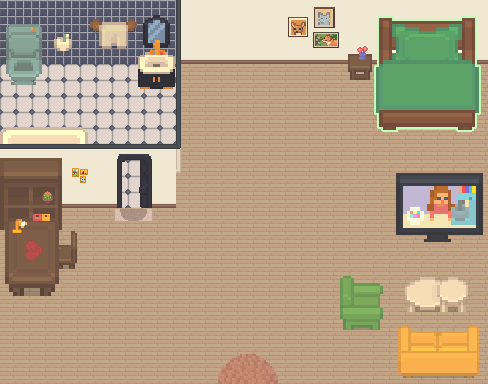
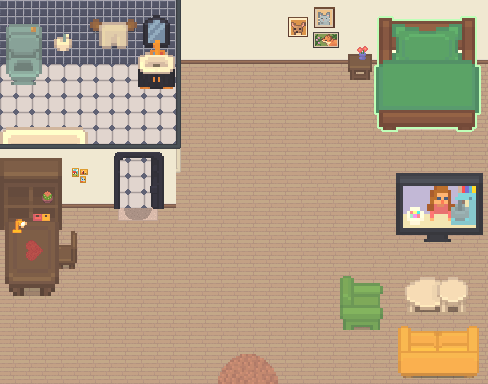
Bug: 캐릭터 이동 버그 수정 (#22)

Changed region(s): [[0.2152, 0.375, 0.3381, 0.5938], [0.8299, 0.7812, 0.9529, 0.8125], [0.8607, 0.9688, 0.9529, 1.0]]

diff --git a/src/assets/home/home-collisions.js b/src/assets/home/home-collisions.js
@@ -24,110 +24,111 @@ const collisions = [
   15, 15, 15, 15, 15, 15, 15, 15, 15, 15, 15, 15, 15, 15, 15, 15, 15, 15, 15,
   15, 15, 15, 15, 15, 15, 15, 15, 15, 15, 15, 15, 15, 15, 15, 15, 15, 15, 15,
   15, 15, 15, 15, 15, 15, 15, 15, 15, 15, 15, 15, 15, 15, 15, 15, 15, 15, 15,
-  15, 15, 15, 15, 15, 15, 15, 15, 15, 15, 15, 15, 15, 0, 15, 15, 15, 15, 0, 0,
+  15, 15, 15, 15, 15, 15, 15, 15, 15, 15, 15, 15, 15, 15, 15, 15, 15, 15, 0, 0,
   0, 0, 0, 0, 0, 0, 0, 0, 0, 0, 15, 15, 15, 15, 15, 15, 0, 0, 0, 0, 0, 0, 0, 0,
   0, 0, 0, 0, 0, 0, 0, 0, 0, 0, 0, 0, 15, 15, 15, 15, 15, 15, 15, 15, 15, 15,
-  15, 15, 15, 15, 15, 15, 15, 15, 0, 15, 15, 15, 15, 0, 0, 0, 0, 0, 0, 0, 0, 0,
+  15, 15, 15, 15, 15, 15, 15, 15, 15, 15, 15, 15, 15, 0, 0, 0, 0, 0, 0, 0, 0, 0,
   0, 0, 0, 15, 15, 15, 15, 15, 15, 0, 0, 0, 0, 0, 0, 0, 0, 0, 0, 0, 0, 0, 0, 0,
   0, 0, 0, 0, 0, 15, 15, 15, 15, 15, 15, 15, 15, 15, 15, 15, 15, 15, 15, 15, 15,
-  15, 15, 0, 0, 0, 0, 0, 0, 0, 0, 0, 0, 0, 0, 0, 0, 0, 0, 0, 15, 15, 15, 15, 15,
-  15, 0, 0, 0, 0, 0, 0, 0, 0, 0, 0, 0, 0, 0, 0, 0, 0, 0, 0, 0, 0, 0, 0, 0, 0,
-  15, 15, 15, 15, 15, 15, 15, 15, 15, 15, 15, 15, 15, 15, 0, 0, 0, 0, 0, 0, 0,
-  0, 0, 0, 0, 0, 0, 0, 0, 0, 0, 0, 0, 0, 0, 0, 15, 0, 0, 0, 0, 0, 0, 0, 0, 0, 0,
-  0, 0, 0, 0, 0, 0, 0, 0, 0, 0, 0, 0, 0, 0, 15, 15, 15, 15, 15, 15, 15, 15, 15,
-  15, 15, 15, 15, 15, 0, 0, 0, 0, 0, 0, 0, 0, 0, 0, 0, 0, 0, 0, 0, 0, 0, 0, 0,
-  0, 0, 0, 15, 0, 0, 0, 0, 0, 0, 0, 0, 0, 0, 0, 0, 0, 0, 0, 0, 0, 0, 0, 0, 0, 0,
-  0, 0, 15, 15, 15, 15, 15, 15, 15, 15, 15, 15, 15, 15, 15, 15, 0, 0, 0, 0, 0,
-  0, 0, 0, 0, 0, 0, 0, 0, 0, 0, 0, 0, 0, 0, 0, 0, 0, 15, 0, 0, 0, 0, 0, 0, 0, 0,
-  0, 0, 0, 0, 0, 0, 0, 0, 0, 0, 0, 0, 0, 0, 0, 0, 15, 15, 15, 15, 15, 15, 15,
-  15, 15, 15, 15, 15, 15, 15, 0, 0, 0, 0, 0, 0, 0, 0, 0, 0, 0, 0, 0, 0, 0, 0, 0,
-  0, 0, 0, 0, 0, 15, 0, 0, 0, 0, 0, 0, 0, 0, 0, 0, 0, 0, 0, 0, 0, 0, 0, 0, 0, 0,
-  0, 0, 0, 0, 15, 15, 15, 15, 15, 15, 15, 15, 15, 15, 15, 15, 15, 15, 0, 0, 0,
-  0, 0, 0, 0, 0, 0, 0, 0, 0, 0, 0, 0, 0, 0, 0, 0, 0, 0, 0, 15, 0, 0, 0, 0, 0, 0,
-  0, 0, 0, 0, 0, 0, 0, 0, 0, 0, 0, 0, 0, 0, 0, 0, 0, 0, 15, 15, 15, 15, 15, 15,
-  15, 15, 15, 15, 15, 15, 15, 15, 15, 15, 15, 15, 15, 15, 15, 15, 15, 15, 15, 0,
-  0, 0, 0, 0, 0, 0, 0, 0, 0, 0, 15, 0, 0, 0, 0, 0, 0, 0, 0, 0, 0, 0, 0, 0, 0, 0,
-  0, 0, 0, 0, 0, 0, 0, 0, 0, 0, 0, 0, 0, 0, 0, 0, 0, 0, 0, 0, 0, 0, 0, 15, 15,
-  15, 15, 15, 15, 15, 15, 15, 15, 15, 0, 0, 0, 0, 0, 0, 0, 0, 0, 0, 0, 15, 0, 0,
-  0, 0, 0, 0, 0, 0, 0, 0, 0, 0, 0, 0, 0, 0, 0, 0, 0, 0, 0, 0, 0, 0, 0, 0, 0, 0,
-  0, 0, 0, 0, 0, 0, 0, 0, 0, 0, 15, 15, 15, 15, 15, 15, 15, 15, 15, 15, 15, 0,
-  0, 0, 0, 0, 0, 0, 0, 0, 0, 0, 15, 0, 0, 0, 0, 0, 0, 0, 0, 0, 0, 0, 0, 0, 0, 0,
-  0, 0, 0, 0, 0, 0, 0, 0, 0, 0, 0, 0, 0, 0, 0, 0, 0, 0, 0, 0, 0, 0, 0, 15, 15,
-  15, 15, 15, 15, 15, 15, 15, 15, 15, 0, 0, 0, 0, 0, 0, 0, 0, 0, 0, 0, 15, 0, 0,
-  0, 0, 0, 0, 0, 0, 0, 0, 0, 0, 0, 0, 0, 0, 0, 0, 0, 0, 0, 0, 0, 0, 0, 0, 0, 0,
-  0, 0, 0, 0, 0, 0, 0, 0, 0, 0, 15, 15, 15, 15, 15, 15, 15, 15, 15, 15, 15, 0,
-  0, 0, 0, 0, 0, 0, 0, 0, 0, 0, 15, 0, 0, 0, 0, 0, 0, 0, 0, 0, 0, 0, 0, 0, 0, 0,
-  0, 0, 0, 0, 0, 0, 0, 0, 0, 0, 0, 0, 0, 0, 0, 0, 0, 0, 0, 0, 0, 0, 0, 15, 15,
-  15, 15, 15, 15, 15, 15, 15, 15, 15, 0, 0, 0, 0, 0, 0, 0, 0, 0, 0, 0, 15, 0, 0,
-  0, 0, 0, 0, 0, 0, 0, 0, 0, 0, 0, 0, 0, 0, 0, 0, 0, 0, 0, 0, 0, 0, 0, 0, 167,
-  168, 167, 168, 167, 168, 167, 168, 167, 168, 167, 168, 15, 15, 15, 15, 15, 15,
-  15, 15, 15, 15, 15, 15, 15, 15, 0, 0, 0, 0, 0, 0, 15, 15, 15, 0, 0, 0, 0, 0,
-  0, 0, 0, 0, 0, 0, 0, 0, 0, 0, 0, 0, 0, 0, 0, 0, 0, 0, 0, 0, 0, 247, 248, 247,
-  248, 247, 248, 247, 248, 247, 248, 247, 248, 15, 15, 15, 15, 15, 15, 15, 15,
-  15, 15, 15, 15, 15, 15, 0, 0, 0, 0, 0, 0, 15, 15, 15, 0, 0, 0, 0, 0, 0, 0, 0,
-  0, 0, 0, 0, 0, 0, 0, 0, 0, 0, 0, 0, 0, 0, 0, 0, 0, 0, 167, 168, 167, 168, 167,
-  168, 167, 168, 167, 168, 167, 168, 15, 15, 15, 15, 15, 15, 15, 15, 15, 15, 15,
-  15, 15, 15, 0, 0, 0, 0, 0, 0, 15, 15, 15, 0, 0, 0, 0, 0, 0, 0, 0, 0, 0, 0, 0,
-  0, 0, 0, 0, 0, 0, 0, 0, 0, 0, 0, 0, 0, 0, 167, 168, 167, 168, 167, 168, 167,
-  168, 167, 168, 167, 168, 15, 15, 15, 15, 15, 15, 15, 15, 15, 15, 15, 15, 15,
-  15, 139445, 0, 0, 0, 0, 139445, 15, 15, 15, 0, 0, 0, 0, 0, 0, 0, 0, 0, 0, 0,
-  0, 0, 0, 0, 0, 0, 0, 0, 0, 0, 0, 0, 0, 0, 0, 15, 15, 15, 15, 15, 15, 15, 15,
-  15, 15, 15, 15, 15, 15, 15, 15, 15, 15, 15, 15, 0, 0, 0, 0, 0, 0, 0, 0, 0, 0,
-  0, 0, 0, 0, 0, 0, 0, 0, 0, 0, 0, 0, 0, 0, 0, 0, 0, 0, 0, 0, 0, 0, 0, 0, 0, 0,
-  0, 0, 0, 0, 0, 15, 15, 15, 15, 15, 15, 15, 15, 15, 15, 15, 15, 15, 15, 15, 15,
-  15, 15, 15, 15, 0, 0, 0, 0, 0, 0, 0, 0, 0, 0, 0, 0, 0, 0, 0, 0, 0, 0, 0, 0, 0,
-  0, 0, 0, 0, 0, 0, 0, 0, 0, 0, 0, 0, 0, 0, 0, 0, 0, 0, 0, 0, 15, 15, 15, 15,
-  15, 15, 15, 15, 15, 15, 15, 15, 0, 15, 15, 15, 15, 15, 15, 0, 0, 0, 0, 0, 0,
-  0, 0, 0, 0, 0, 0, 0, 0, 0, 0, 0, 0, 0, 0, 0, 0, 0, 0, 0, 0, 0, 0, 0, 0, 0, 0,
-  0, 0, 0, 0, 0, 0, 0, 0, 0, 0, 15, 15, 15, 15, 15, 15, 15, 15, 15, 15, 15, 15,
-  0, 15, 15, 15, 15, 15, 15, 0, 0, 139445, 0, 0, 0, 0, 0, 0, 0, 0, 0, 0, 0, 0,
-  0, 0, 0, 0, 0, 0, 0, 0, 0, 0, 0, 0, 0, 0, 0, 0, 0, 0, 0, 0, 0, 0, 0, 0, 0, 0,
-  0, 15, 15, 15, 15, 15, 15, 15, 15, 15, 15, 15, 15, 0, 15, 15, 15, 15, 15, 15,
-  0, 0, 139445, 0, 0, 0, 0, 0, 0, 0, 0, 0, 0, 0, 0, 0, 0, 0, 0, 0, 0, 0, 0, 0,
-  0, 0, 0, 0, 0, 0, 0, 0, 0, 0, 0, 0, 0, 0, 0, 0, 0, 0, 0, 0, 0, 0, 139445,
-  139445, 139445, 139445, 139445, 0, 0, 0, 0, 15, 15, 15, 15, 15, 15, 15, 15,
-  139445, 0, 0, 0, 0, 0, 0, 0, 0, 0, 0, 0, 0, 0, 0, 0, 0, 0, 0, 0, 0, 0, 0, 0,
-  0, 0, 0, 0, 0, 0, 0, 0, 0, 0, 0, 0, 0, 0, 0, 0, 0, 0, 0, 0, 0, 0, 0, 0, 0, 0,
-  0, 0, 0, 15, 15, 15, 15, 15, 15, 15, 15, 139445, 0, 0, 0, 0, 0, 0, 0, 0, 0, 0,
-  0, 0, 0, 0, 0, 0, 0, 0, 0, 0, 0, 0, 0, 0, 0, 0, 0, 0, 0, 0, 0, 0, 0, 0, 0, 0,
-  0, 0, 0, 0, 0, 0, 0, 0, 0, 0, 0, 0, 0, 0, 0, 0, 15, 15, 15, 15, 15, 15, 15, 0,
-  139445, 0, 0, 0, 0, 0, 0, 0, 0, 0, 0, 0, 0, 0, 0, 0, 0, 0, 0, 0, 0, 0, 0, 0,
-  0, 0, 0, 0, 0, 0, 0, 0, 0, 0, 0, 0, 0, 0, 0, 0, 0, 0, 0, 0, 0, 0, 0, 0, 0, 0,
-  0, 0, 0, 15, 15, 15, 15, 15, 15, 0, 0, 0, 0, 0, 0, 0, 0, 0, 0, 0, 0, 0, 0, 0,
-  0, 0, 0, 0, 0, 0, 0, 0, 0, 0, 0, 0, 0, 0, 0, 0, 0, 0, 0, 0, 0, 0, 0, 0, 0, 0,
-  0, 0, 0, 139445, 139445, 139445, 139445, 0, 0, 0, 0, 0, 0, 0, 15, 15, 15, 15,
+  15, 15, 15, 0, 0, 0, 0, 0, 0, 0, 0, 0, 0, 0, 0, 0, 0, 0, 0, 15, 15, 15, 15,
   15, 15, 0, 0, 0, 0, 0, 0, 0, 0, 0, 0, 0, 0, 0, 0, 0, 0, 0, 0, 0, 0, 0, 0, 0,
-  0, 0, 0, 0, 0, 0, 0, 0, 0, 0, 0, 0, 0, 0, 0, 0, 0, 0, 0, 0, 0, 15, 15, 15, 15,
-  15, 15, 15, 0, 0, 0, 0, 139445, 139445, 0, 0, 139445, 139445, 0, 0, 0, 0, 0,
-  0, 0, 0, 0, 0, 0, 0, 0, 0, 0, 0, 0, 0, 0, 0, 0, 0, 0, 0, 0, 0, 0, 0, 0, 0, 0,
-  0, 0, 0, 0, 0, 0, 0, 0, 0, 0, 0, 0, 0, 15, 15, 15, 15, 15, 15, 15, 0, 0, 0, 0,
-  0, 0, 0, 0, 0, 0, 0, 0, 0, 0, 0, 0, 0, 0, 0, 0, 0, 0, 0, 0, 0, 0, 0, 0, 0, 0,
-  0, 0, 0, 0, 0, 0, 0, 0, 0, 0, 0, 0, 0, 0, 0, 0, 15, 15, 15, 15, 15, 0, 0, 0,
+  0, 15, 15, 15, 15, 15, 15, 15, 15, 15, 15, 15, 15, 15, 15, 15, 0, 0, 0, 0, 0,
+  0, 0, 0, 0, 0, 0, 0, 0, 0, 0, 0, 0, 0, 0, 0, 0, 15, 0, 0, 0, 0, 0, 0, 0, 0, 0,
+  0, 0, 0, 0, 0, 0, 0, 0, 0, 0, 0, 0, 0, 0, 0, 15, 15, 15, 15, 15, 15, 15, 15,
   15, 15, 15, 15, 15, 15, 15, 0, 0, 0, 0, 0, 0, 0, 0, 0, 0, 0, 0, 0, 0, 0, 0, 0,
+  0, 0, 0, 0, 15, 0, 0, 0, 0, 0, 0, 0, 0, 0, 0, 0, 0, 0, 0, 0, 0, 0, 0, 0, 0, 0,
+  0, 0, 0, 15, 15, 15, 15, 15, 15, 15, 15, 15, 15, 15, 15, 15, 15, 15, 0, 0, 0,
+  0, 0, 0, 0, 0, 0, 0, 0, 0, 0, 0, 0, 0, 0, 0, 0, 0, 0, 15, 0, 0, 0, 0, 0, 0, 0,
+  0, 0, 0, 0, 0, 0, 0, 0, 0, 0, 0, 0, 0, 0, 0, 0, 0, 15, 15, 15, 15, 15, 15, 15,
+  15, 15, 15, 15, 15, 15, 15, 15, 0, 0, 0, 0, 0, 0, 0, 0, 0, 0, 0, 0, 0, 0, 0,
+  0, 0, 0, 0, 0, 0, 15, 0, 0, 0, 0, 0, 0, 0, 0, 0, 0, 0, 0, 0, 0, 0, 0, 0, 0, 0,
+  0, 0, 0, 0, 0, 15, 15, 15, 15, 15, 15, 15, 15, 15, 15, 15, 15, 15, 15, 15, 0,
+  0, 0, 0, 0, 0, 0, 0, 0, 0, 0, 0, 0, 0, 0, 0, 0, 0, 0, 0, 0, 15, 0, 0, 0, 0, 0,
+  0, 0, 0, 0, 0, 0, 0, 0, 0, 0, 0, 0, 0, 0, 0, 0, 0, 0, 0, 15, 15, 15, 15, 15,
+  15, 15, 15, 15, 15, 15, 15, 15, 15, 15, 15, 15, 15, 15, 15, 15, 15, 15, 15,
+  15, 0, 0, 0, 0, 0, 0, 0, 0, 0, 0, 0, 15, 0, 0, 0, 0, 0, 0, 0, 0, 0, 0, 0, 0,
+  0, 0, 0, 0, 0, 0, 0, 0, 0, 0, 0, 0, 0, 0, 0, 0, 0, 0, 0, 0, 0, 0, 0, 0, 0, 15,
+  15, 15, 15, 15, 15, 15, 15, 15, 15, 15, 15, 0, 0, 0, 0, 0, 0, 0, 0, 0, 0, 0,
+  15, 0, 0, 0, 0, 0, 0, 0, 0, 0, 0, 0, 0, 0, 0, 0, 0, 0, 0, 0, 0, 0, 0, 0, 0, 0,
+  0, 0, 0, 0, 0, 0, 0, 0, 0, 0, 0, 0, 15, 15, 15, 15, 15, 15, 15, 15, 15, 15,
+  15, 15, 0, 0, 0, 0, 0, 0, 0, 0, 0, 0, 0, 15, 0, 0, 0, 0, 0, 0, 0, 0, 0, 0, 0,
   0, 0, 0, 0, 0, 0, 0, 0, 0, 0, 0, 0, 0, 0, 0, 0, 0, 0, 0, 0, 0, 0, 0, 0, 0, 0,
-  0, 0, 0, 15, 15, 15, 15, 15, 0, 0, 0, 15, 15, 15, 15, 15, 15, 15, 0, 0, 0, 0,
+  15, 15, 15, 15, 15, 15, 15, 15, 15, 15, 15, 15, 0, 0, 0, 0, 0, 0, 0, 0, 0, 0,
+  0, 15, 0, 0, 0, 0, 0, 0, 0, 0, 0, 0, 0, 0, 0, 0, 0, 0, 0, 0, 0, 0, 0, 0, 0, 0,
+  0, 0, 0, 0, 0, 0, 0, 0, 0, 0, 0, 0, 0, 15, 15, 15, 15, 15, 15, 15, 15, 15, 15,
+  15, 15, 0, 0, 0, 0, 0, 0, 0, 0, 0, 0, 0, 15, 0, 0, 0, 0, 0, 0, 0, 0, 0, 0, 0,
   0, 0, 0, 0, 0, 0, 0, 0, 0, 0, 0, 0, 0, 0, 0, 0, 0, 0, 0, 0, 0, 0, 0, 0, 0, 0,
-  0, 0, 0, 0, 0, 0, 0, 0, 0, 0, 0, 0, 0, 0, 0, 0, 15, 15, 15, 15, 15, 0, 0, 0,
+  15, 15, 15, 15, 15, 15, 15, 15, 15, 15, 15, 15, 0, 0, 0, 0, 0, 0, 0, 0, 0, 15,
+  15, 15, 0, 0, 0, 0, 0, 0, 0, 0, 0, 0, 0, 0, 0, 0, 0, 0, 0, 0, 0, 0, 0, 0, 0,
+  0, 0, 0, 167, 168, 167, 168, 167, 168, 167, 168, 167, 168, 167, 15, 15, 15,
+  15, 15, 15, 15, 15, 15, 15, 15, 15, 15, 15, 0, 0, 0, 0, 0, 0, 0, 15, 15, 15,
   0, 0, 0, 0, 0, 0, 0, 0, 0, 0, 0, 0, 0, 0, 0, 0, 0, 0, 0, 0, 0, 0, 0, 0, 0, 0,
+  247, 248, 247, 248, 247, 248, 247, 248, 247, 248, 247, 15, 15, 15, 15, 15, 15,
+  15, 15, 15, 15, 15, 15, 15, 15, 0, 0, 0, 0, 0, 0, 0, 15, 15, 15, 0, 0, 0, 0,
+  0, 0, 0, 0, 0, 0, 0, 0, 0, 0, 0, 0, 0, 0, 0, 0, 0, 0, 0, 0, 0, 0, 167, 168,
+  167, 168, 167, 168, 167, 168, 167, 168, 167, 15, 15, 15, 15, 15, 15, 15, 15,
+  15, 15, 15, 15, 15, 15, 0, 0, 0, 0, 0, 0, 0, 15, 15, 15, 0, 0, 0, 0, 0, 0, 0,
+  0, 0, 0, 0, 0, 0, 0, 0, 0, 0, 0, 0, 0, 0, 0, 0, 0, 0, 0, 167, 168, 167, 168,
+  167, 168, 167, 168, 167, 168, 167, 15, 15, 15, 15, 15, 15, 15, 15, 15, 15, 15,
+  15, 15, 15, 0, 139445, 0, 0, 0, 0, 139445, 15, 15, 15, 0, 0, 0, 0, 0, 0, 0, 0,
+  0, 0, 0, 0, 0, 0, 0, 0, 0, 0, 0, 0, 0, 0, 0, 0, 0, 0, 15, 15, 15, 15, 15, 15,
+  15, 15, 15, 15, 15, 15, 15, 15, 15, 15, 15, 15, 15, 0, 0, 0, 0, 0, 0, 0, 0, 0,
   0, 0, 0, 0, 0, 0, 0, 0, 0, 0, 0, 0, 0, 0, 0, 0, 0, 0, 0, 0, 0, 0, 0, 0, 0, 0,
-  0, 15, 15, 15, 15, 15, 0, 0, 15, 0, 0, 0, 0, 0, 0, 0, 15, 15, 0, 0, 0, 0, 0,
+  0, 0, 0, 0, 0, 0, 0, 15, 15, 15, 15, 15, 15, 15, 15, 15, 15, 15, 15, 15, 15,
+  15, 15, 15, 15, 15, 0, 0, 0, 0, 0, 0, 0, 0, 0, 0, 0, 0, 0, 0, 0, 0, 0, 0, 0,
+  0, 0, 0, 0, 0, 0, 0, 0, 0, 0, 0, 0, 0, 0, 0, 0, 0, 0, 0, 0, 0, 0, 0, 15, 15,
+  15, 15, 15, 15, 15, 15, 15, 15, 15, 15, 15, 15, 15, 15, 15, 15, 15, 0, 0, 0,
   0, 0, 0, 0, 0, 0, 0, 0, 0, 0, 0, 0, 0, 0, 0, 0, 0, 0, 0, 0, 0, 0, 0, 0, 0, 0,
-  0, 0, 0, 0, 0, 0, 0, 0, 0, 0, 0, 0, 0, 0, 0, 0, 0, 0, 0, 0, 15, 15, 15, 15,
+  0, 0, 0, 0, 0, 0, 0, 0, 0, 0, 0, 0, 0, 15, 15, 15, 15, 15, 15, 15, 15, 15, 15,
+  15, 15, 15, 15, 15, 15, 15, 15, 15, 0, 0, 139445, 0, 0, 0, 0, 0, 0, 0, 0, 0,
+  0, 0, 0, 0, 0, 0, 0, 0, 0, 0, 0, 0, 0, 0, 0, 0, 0, 0, 0, 0, 0, 0, 0, 0, 0, 0,
+  0, 0, 0, 0, 15, 15, 15, 15, 15, 15, 15, 15, 15, 15, 15, 15, 15, 15, 15, 15,
+  15, 15, 15, 0, 0, 139445, 0, 0, 0, 0, 0, 0, 0, 0, 0, 0, 0, 0, 0, 0, 0, 0, 0,
+  0, 0, 0, 0, 0, 0, 0, 0, 0, 0, 0, 0, 0, 0, 0, 0, 0, 0, 0, 0, 0, 0, 0, 0, 0, 0,
+  139445, 139445, 139445, 139445, 139445, 0, 0, 15, 15, 15, 15, 15, 15, 15, 15,
+  15, 15, 139445, 0, 0, 0, 0, 0, 0, 0, 0, 0, 0, 0, 0, 0, 0, 0, 0, 0, 0, 0, 0, 0,
+  0, 0, 0, 0, 0, 0, 0, 0, 0, 0, 0, 0, 0, 0, 0, 0, 0, 0, 0, 0, 0, 0, 0, 0, 0, 0,
+  0, 0, 0, 15, 15, 15, 15, 15, 15, 15, 15, 15, 15, 139445, 0, 0, 0, 0, 0, 0, 0,
+  0, 0, 0, 0, 0, 0, 0, 0, 0, 0, 0, 0, 0, 0, 0, 0, 0, 0, 0, 0, 0, 0, 0, 0, 0, 0,
+  0, 0, 0, 0, 0, 0, 0, 0, 0, 0, 0, 0, 0, 0, 0, 0, 0, 15, 15, 15, 15, 15, 15, 15,
+  15, 15, 0, 139445, 0, 0, 0, 0, 0, 0, 0, 0, 0, 0, 0, 0, 0, 0, 0, 0, 0, 0, 0, 0,
+  0, 0, 0, 0, 0, 0, 0, 0, 0, 0, 0, 0, 0, 0, 0, 0, 0, 0, 0, 0, 0, 0, 0, 0, 0, 0,
+  0, 0, 0, 0, 15, 15, 15, 15, 15, 15, 15, 15, 0, 0, 0, 0, 0, 0, 0, 0, 0, 0, 0,
+  0, 0, 0, 0, 0, 0, 0, 0, 0, 0, 0, 0, 0, 0, 0, 0, 0, 0, 0, 0, 0, 0, 0, 0, 0, 0,
+  0, 0, 0, 0, 0, 0, 0, 139445, 139445, 139445, 139445, 0, 0, 0, 0, 0, 15, 15,
   15, 15, 15, 15, 15, 15, 0, 0, 0, 0, 0, 0, 0, 0, 0, 0, 0, 0, 0, 0, 0, 0, 0, 0,
   0, 0, 0, 0, 0, 0, 0, 0, 0, 0, 0, 0, 0, 0, 0, 0, 0, 0, 0, 0, 0, 0, 0, 0, 0, 0,
-  0, 0, 0, 0, 0, 0, 0, 15, 15, 15, 15, 15, 15, 15, 15, 15, 15, 0, 0, 0, 0, 0, 0,
+  15, 15, 15, 15, 15, 15, 15, 0, 0, 15, 15, 139445, 139445, 0, 0, 139445,
+  139445, 0, 0, 0, 0, 0, 0, 0, 0, 0, 0, 0, 0, 0, 0, 0, 0, 0, 0, 0, 0, 0, 0, 0,
+  0, 0, 0, 0, 0, 0, 0, 0, 0, 0, 0, 0, 0, 0, 0, 0, 0, 0, 0, 0, 0, 15, 15, 15, 15,
+  15, 15, 15, 0, 0, 15, 15, 0, 0, 0, 0, 0, 0, 0, 0, 0, 0, 0, 0, 0, 0, 0, 0, 0,
+  0, 0, 0, 0, 0, 0, 0, 0, 0, 0, 0, 0, 0, 0, 0, 0, 0, 0, 0, 0, 0, 0, 0, 0, 0, 15,
+  15, 15, 15, 15, 0, 0, 0, 15, 15, 15, 15, 15, 15, 15, 0, 0, 15, 15, 0, 0, 0, 0,
   0, 0, 0, 0, 0, 0, 0, 0, 0, 0, 0, 0, 0, 0, 0, 0, 0, 0, 0, 0, 0, 0, 0, 0, 0, 0,
-  0, 0, 0, 0, 0, 0, 0, 0, 0, 0, 0, 0, 0, 0, 0, 0, 0, 0, 0, 15, 15, 15, 15, 15,
+  0, 0, 0, 0, 0, 0, 0, 0, 0, 0, 0, 0, 15, 15, 15, 15, 15, 0, 0, 0, 15, 15, 15,
+  15, 15, 15, 15, 0, 0, 15, 15, 0, 0, 0, 0, 0, 0, 0, 0, 0, 0, 0, 0, 0, 0, 0, 0,
+  0, 0, 0, 0, 0, 0, 0, 0, 0, 0, 0, 0, 0, 0, 0, 0, 0, 0, 0, 0, 0, 0, 0, 0, 0, 0,
+  15, 15, 15, 15, 15, 0, 0, 0, 0, 0, 0, 0, 0, 0, 0, 0, 0, 15, 15, 0, 0, 0, 0, 0,
+  0, 0, 0, 0, 0, 0, 0, 0, 0, 0, 0, 0, 0, 0, 0, 0, 0, 0, 0, 0, 0, 0, 0, 0, 0, 0,
+  0, 0, 0, 0, 0, 0, 0, 0, 0, 0, 0, 15, 15, 15, 15, 15, 0, 0, 15, 0, 0, 0, 0, 0,
+  0, 0, 15, 15, 15, 15, 0, 0, 0, 0, 0, 0, 0, 0, 0, 0, 0, 0, 0, 0, 0, 0, 0, 0, 0,
+  0, 0, 0, 0, 0, 0, 0, 0, 0, 0, 0, 0, 0, 0, 0, 0, 0, 0, 0, 0, 0, 0, 0, 0, 0, 0,
+  0, 0, 0, 0, 15, 15, 15, 15, 15, 15, 15, 15, 15, 15, 15, 15, 0, 0, 0, 0, 0, 0,
+  0, 0, 0, 0, 0, 0, 0, 0, 0, 0, 0, 0, 0, 0, 0, 0, 0, 0, 0, 0, 0, 0, 0, 0, 0, 0,
+  0, 0, 0, 0, 0, 0, 0, 0, 0, 0, 0, 0, 0, 0, 0, 0, 0, 15, 15, 15, 15, 15, 15, 15,
   15, 15, 15, 15, 15, 0, 0, 0, 0, 0, 0, 0, 0, 0, 0, 0, 0, 0, 0, 0, 0, 0, 0, 0,
   0, 0, 0, 0, 0, 0, 0, 0, 0, 0, 0, 0, 0, 0, 0, 0, 0, 0, 0, 0, 0, 0, 0, 0, 0, 0,
-  0, 0, 0, 0, 0, 0, 15, 15, 15, 15, 15, 15, 15, 15, 15, 15, 0, 0, 0, 0, 0, 0, 0,
+  0, 0, 0, 0, 15, 15, 15, 15, 15, 15, 15, 15, 15, 15, 15, 15, 0, 0, 0, 0, 0, 0,
   0, 0, 0, 0, 0, 0, 0, 0, 0, 0, 0, 0, 0, 0, 0, 0, 0, 0, 0, 0, 0, 0, 0, 0, 0, 0,
-  0, 0, 0, 0, 0, 0, 0, 0, 0, 0, 0, 0, 0, 0, 0, 0, 0, 0, 15, 15, 15, 15, 15, 15,
-  15, 15, 15, 15, 0, 0, 0, 0, 0, 0, 0, 0, 0, 0, 0, 0, 0, 0, 0, 0, 0, 0, 0, 0, 0,
+  0, 0, 0, 0, 0, 0, 0, 0, 0, 0, 0, 0, 0, 0, 0, 0, 0, 15, 15, 15, 15, 15, 15, 15,
+  15, 15, 15, 15, 15, 0, 0, 0, 0, 0, 0, 0, 0, 0, 0, 0, 0, 0, 0, 0, 0, 0, 0, 0,
   0, 0, 0, 0, 0, 0, 0, 0, 0, 0, 0, 0, 0, 0, 0, 0, 0, 0, 0, 0, 0, 0, 0, 0, 0, 0,
-  0, 0, 0, 0, 15, 15, 15, 15, 15, 15, 15, 15, 15, 15, 0, 0, 0, 0, 0, 0, 0, 0, 0,
+  0, 0, 0, 0, 15, 15, 15, 15, 15, 15, 15, 15, 15, 15, 15, 15, 0, 0, 0, 0, 0, 0,
   0, 0, 0, 0, 0, 0, 0, 0, 0, 0, 0, 0, 0, 0, 0, 0, 0, 0, 0, 0, 0, 0, 0, 0, 0, 0,
-  0, 0, 0, 0, 0, 0, 0, 0, 0, 0, 0, 0, 0, 0, 0, 0, 0, 0, 0, 0, 0, 0, 0, 0, 0, 0,
-  0,
+  0, 0, 0, 0, 0, 0, 0, 0, 0, 0, 0, 0, 0, 0, 0, 0, 0, 15, 15, 15, 15, 15, 15, 15,
+  15, 15, 15, 15, 15, 15, 15, 15, 15, 15, 15, 15, 15, 15, 15, 15, 15, 15, 15,
+  15, 15, 15, 15, 15, 15, 15, 15, 15, 15, 15, 15, 15, 15, 15, 15, 15, 15, 15,
+  15, 15, 15, 15, 15, 15, 15, 15, 15, 15, 15, 15, 15, 15, 15, 15, 15, 15, 15,
+  15, 15, 15, 15, 15, 15, 15, 15,
 ];
 export default collisions;

diff --git a/src/world/CharacterInHome.jsx b/src/world/CharacterInHome.jsx
@@ -117,7 +117,6 @@ const Character = ({ setBackground }) => {
   // 키 눌렀을 때 실행될 함수
   const handleArrowKeyDown = useCallback(
     (e) => {
-      setIsAnimating(true);
       const ArrowKeys = {
         KeyW: { dir: Direction.UP, isMoveable: () => charY - 16 > 0 },
         KeyS: {
@@ -136,6 +135,7 @@ const Character = ({ setBackground }) => {
 
       const key = ArrowKeys[e.code];
       if (key) {
+        setIsAnimating(true);
         if (e.code === 'KeyE' && key.isMoveable()) {
           // # todo: 편지 모달 만들어지면 timeout 안 하기
           setWriteLetter(true);
